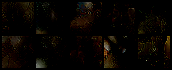
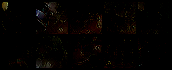
change

diff --git a/src/vae_inn_train.py b/src/vae_inn_train.py
@@ -31,10 +31,13 @@ checkpoint_callback = ModelCheckpoint(
 
 DEVICE = torch.device("cuda:0" if torch.cuda.is_available() else "cpu")
 
+# transform = Compose(
+#     [Resize((32,32)), Grayscale(3), ToTensor(), Normalize((0.1307,), (0.3081,))])
 transform = Compose(
-    [Resize((32,32)), Grayscale(3), ToTensor(), Normalize((0.1307,), (0.3081,))])
+    [ToTensor(), Normalize((0.5, 0.5, 0.5), (0.5, 0.5, 0.5))])
+    
 
-train_set = datasets.MNIST(root='data', train=True,
+train_set = datasets.CIFAR10(root='data', train=True,
                               download=True, transform=transform)
 val_set = datasets.CIFAR10(root='data', train=False,
                               download=True, transform=transform)
@@ -57,21 +60,21 @@ class ModelSaveCallback(Callback):
         print("Training is starting")
 
     def on_train_epoch_start(self, trainer: Trainer, pl_module: pl.LightningModule) -> None:
-        if trainer.current_epoch % 2 == 0:
+        if trainer.current_epoch % 20 == 0:
           torch.save(model.state_dict(), "model.pt")
           BATCH_SIZE = 10
-          samples = model.innmodule.inn.inverse(torch.randn((BATCH_SIZE, 64))).detach()
+          samples = model.innmodule.inn.inverse(torch.randn((BATCH_SIZE, 64)).to(DEVICE)).to(DEVICE).detach()
           samples = samples.reshape((BATCH_SIZE, 4, 4, 4))
           decoded_img = model.encoder.sd_vae.tiled_decode(samples)
           grid_img = torchvision.utils.make_grid(decoded_img.sample, nrow=5)
-          torchvision.utils.save_image(grid_img, f"vae-inn-synthesis-prober/src/outputs_mnist/epoch_{trainer.current_epoch}.png")
+          torchvision.utils.save_image(grid_img, f'/export/home/ra35tiy/vae-inn-synthesis-prober/src/outputs_cifar/epoch_{trainer.current_epoch}.png')
 
     def on_train_end(self, trainer, pl_module):
         print("Training is ending")
 
 
 # trainer = pl.Trainer(max_epochs=10, devices=devices,logger=logger,callbacks=[checkpoint_callback])  # Set devices=1 for GPU training
-trainer = pl.Trainer(max_epochs=200, devices=devices, logger=logger, callbacks=[ModelSaveCallback()])  # Set devices=1 for GPU training
+trainer = pl.Trainer(max_epochs=10000, devices=devices, logger=logger, callbacks=[ModelSaveCallback()])  # Set devices=1 for GPU training
 
 # Start training
 trainer.fit(model, train_dataloaders=train_loader)

diff --git a/src/reconstruction.py b/src/reconstruction.py
@@ -21,7 +21,7 @@ from model import VaeInnModel
 BATCH_SIZE = 20 # create BATCH_SIZE images in total
 
 model = VaeInnModel()
-model.load_state_dict(torch.load("model.pt"))
+model.load_state_dict(torch.load("/export/home/ra35tiy/vae-inn-synthesis-prober/model_mnist_vae.pt"))
 model.eval()
 model.cuda()
 
@@ -49,13 +49,22 @@ train_loader = DataLoader(train_set, batch_size=20, shuffle=True)
 val_loader = DataLoader(val_set, batch_size=20)
 
 
-encoder = model.VariationalEncoder()
-vae = AutoencoderKL.from_pretrained("stabilityai/sd-vae-ft-mse")
+# encoder = model.VariationalEncoder()
+# vae = AutoencoderKL.from_pretrained("stabilityai/sd-vae-ft-mse")
 
 #get a batch of data to test
 features, targets = next(iter(train_loader))
 grid_img = torchvision.utils.make_grid(features.cpu(), nrow=5)
 plt.imshow(grid_img.permute(1, 2, 0))
+plt.savefig("original.png")
+
+inn_output,x1,x2 = model(features.cuda())
+print(inn_output.shape)
+samples = inn_output.reshape((20, 4, 4, 4))
+decoded_img = model.encoder.sd_vae.tiled_decode(samples)
+grid_img = torchvision.utils.make_grid(decoded_img.sample.cpu(), nrow=5)
+plt.imshow(grid_img.permute(1, 2, 0))
+plt.savefig("reconstructed.png")
 
 # image_demo = features[0]
 # image_demo.unsqueeze(0)
